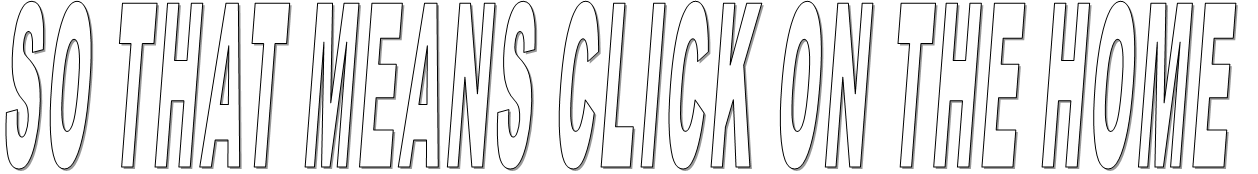
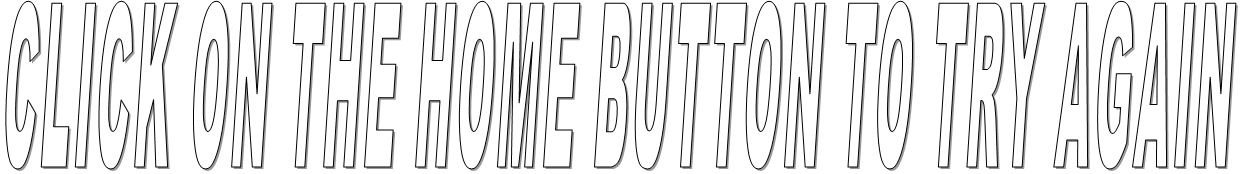
lol

Changed region(s): [[0.0, 0.0, 0.9921, 0.977]]

diff --git a/index_scribble.html b/index_scribble.html
@@ -26,17 +26,17 @@
 <img src="images/Could.png" id="Image3" alt=""></div>
 <div id="wb_Button_Home" style="position:absolute;left:167px;top:0px;width:222px;height:104px;z-index:6;">
 <a href="https://plushbanshee.github.io/" title="go back home" onmouseover="PlayAudio('sound_boring');AnimateCss('wb_Button_Home', 'fall', 0, 500);return false;"><img src="images/button-home.gif" id="Button_Home" alt=""></a></div>
-<div id="wb_TextArt1" style="position:absolute;left:590px;top:104px;width:240px;height:48px;z-index:7;">
+<div id="wb_TextArt1" style="position:absolute;left:573px;top:69px;width:240px;height:48px;z-index:7;">
 <img src="images/img0005.png" id="TextArt1" alt="SORRY COME BACK LATER" title="SORRY COME BACK LATER" style="width:240px;height:48px;"></div>
-<div id="wb_TextArt2" style="position:absolute;left:35px;top:152px;width:1258px;height:174px;z-index:8;">
-<img src="images/img0006.png" id="TextArt2" alt="SO THAT MEANS CLICK ON THE HOME" title="SO THAT MEANS CLICK ON THE HOME" style="width:1258px;height:174px;"></div>
-<div id="wb_TextArt3" style="position:absolute;left:38px;top:291px;width:1252px;height:67px;z-index:9;">
-<img src="images/img0007.png" id="TextArt3" alt="you might have to try a few times GOT IT!" title="you might have to try a few times GOT IT!" style="width:1252px;height:67px;"></div>
+<div id="wb_TextArt2" style="position:absolute;left:43px;top:117px;width:1258px;height:174px;z-index:8;">
+<img src="images/img0006.png" id="TextArt2" alt="CLICK ON THE HOME BUTTON TO TRY AGAIN " title="CLICK ON THE HOME BUTTON TO TRY AGAIN " style="width:1258px;height:174px;"></div>
+<div id="wb_TextArt3" style="position:absolute;left:48px;top:281px;width:1249px;height:64px;z-index:9;">
+<img src="images/img0007.png" id="TextArt3" alt="you might have to try a few times GOT IT!" title="you might have to try a few times GOT IT!" style="width:1249px;height:64px;"></div>
 <div id="wb_barkbarkbark" style="position:absolute;left:1269px;top:373px;width:49px;height:45px;z-index:10;">
 <audio src="Sound_IMADOGBARKBARKBARK.ogg" id="barkbarkbark">
 </audio>
 </div>
-<div id="wb_Image4" style="position:absolute;left:484px;top:333px;width:817px;height:624px;z-index:11;">
-<img src="images/StarOWO.png" id="Image4" alt=""></div>
+<div id="wb_star" style="position:absolute;left:484px;top:333px;width:817px;height:624px;z-index:11;">
+<img src="images/StarOWO.png" id="star" alt=""></div>
 </body>
 </html>

diff --git a/index_scribble.css b/index_scribble.css
@@ -108,7 +108,7 @@ body
    width: 100%;
    height: 100%;
 }
-#Image4
+#star
 {
    border: 0px solid #000000;
    padding: 0;
